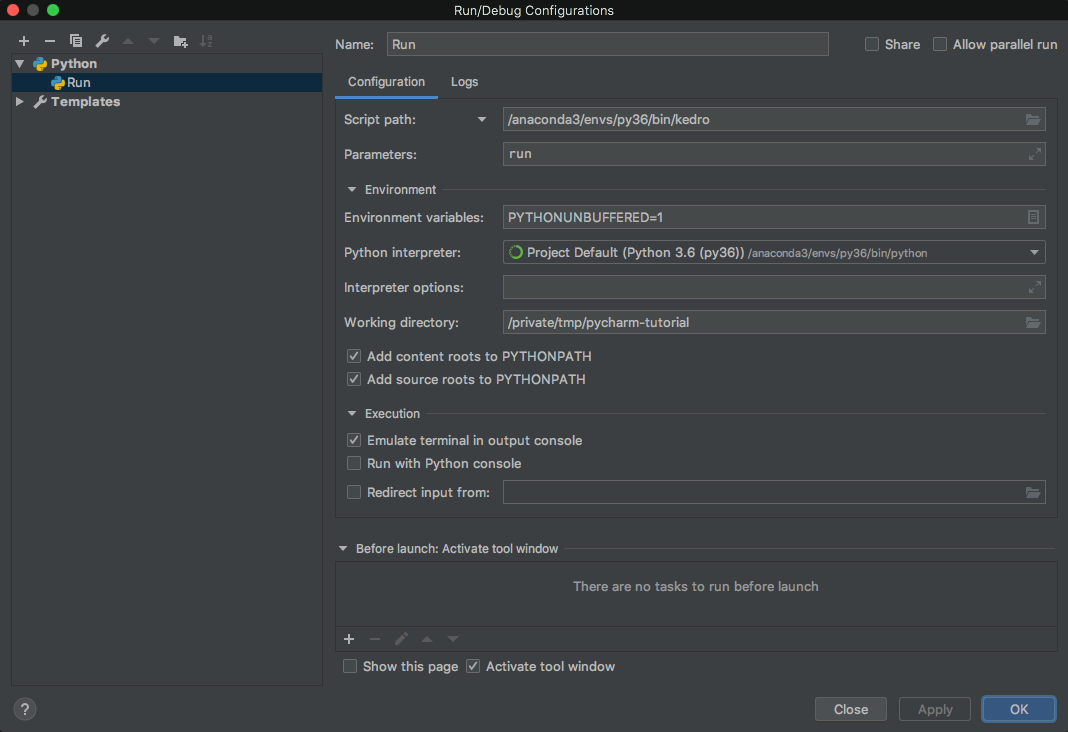
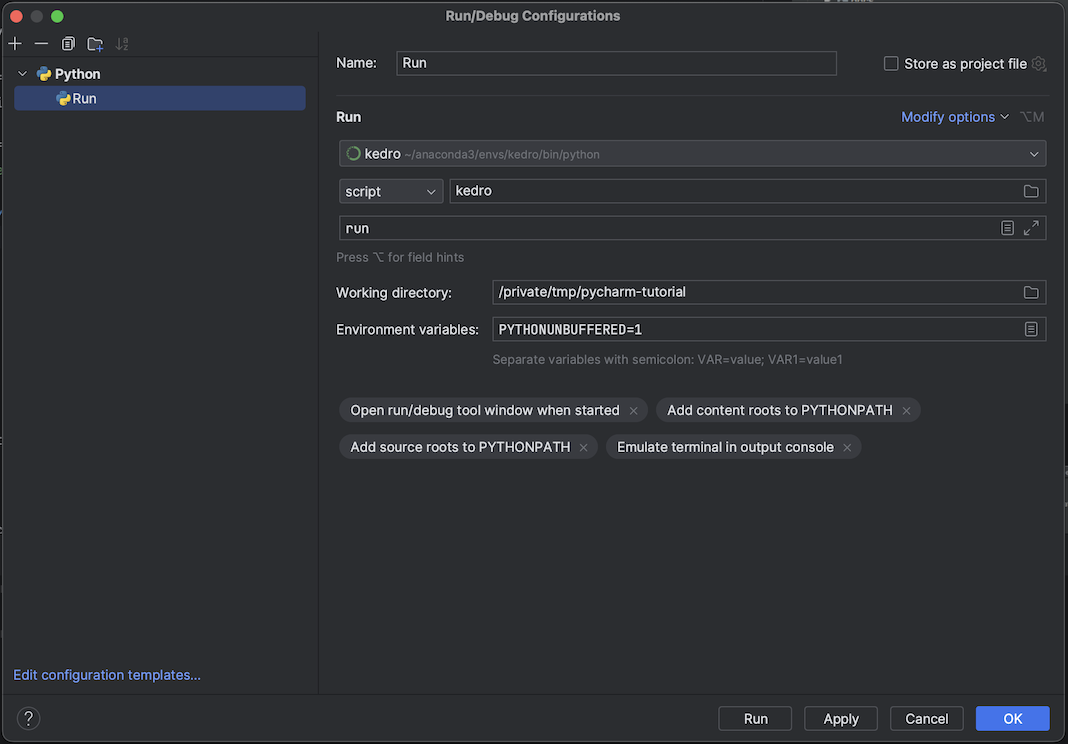
Update PyCharm Run/Debug Configuration documentation

diff --git a/docs/source/development/set_up_pycharm.md b/docs/source/development/set_up_pycharm.md
@@ -50,21 +50,15 @@ Add a new **Python** Run configuration:
 
 ![](../meta/images/pycharm_add_py_run_config.png)
 
-Create a **Run / Debug Configuration** for `kedro run` and get the path to the Kedro CLI script:
+Specify the **Run / Debug Configuration** name in the **Name** field, and edit the new Run configuration as follows:
 
-```console
-# macOS / Linux
-which kedro
-
-# Windows (in `cmd`)
-python -c "import sys, os.path; print(os.path.join(os.path.dirname(sys.executable), 'Lib\site-packages\kedro\__main__.py'))"
-```
-
-Edit the new Run configuration as follows:
+- Pick **Module** from the dropdown
+- Enter ``kedro`` in the **Module Name** field
+- Enter ``run`` in the **Parameters** field
+- Enter the path of your project directory into the **Working directory** field
+- Pick ``Emulate termulate in output consule`` from the **Modify options** dropdown, and then click **OK**
 
 ![](../meta/images/pycharm_edit_py_run_config.png)
-
-Replace **Script path** with path obtained above and **Working directory** with the path of your project directory and then click **OK**.
 
 ```{note}
 **Emulate terminal in output console** enables PyCharm to show [rich terminal output](../logging/logging.md#default-framework-side-logging-configuration).
